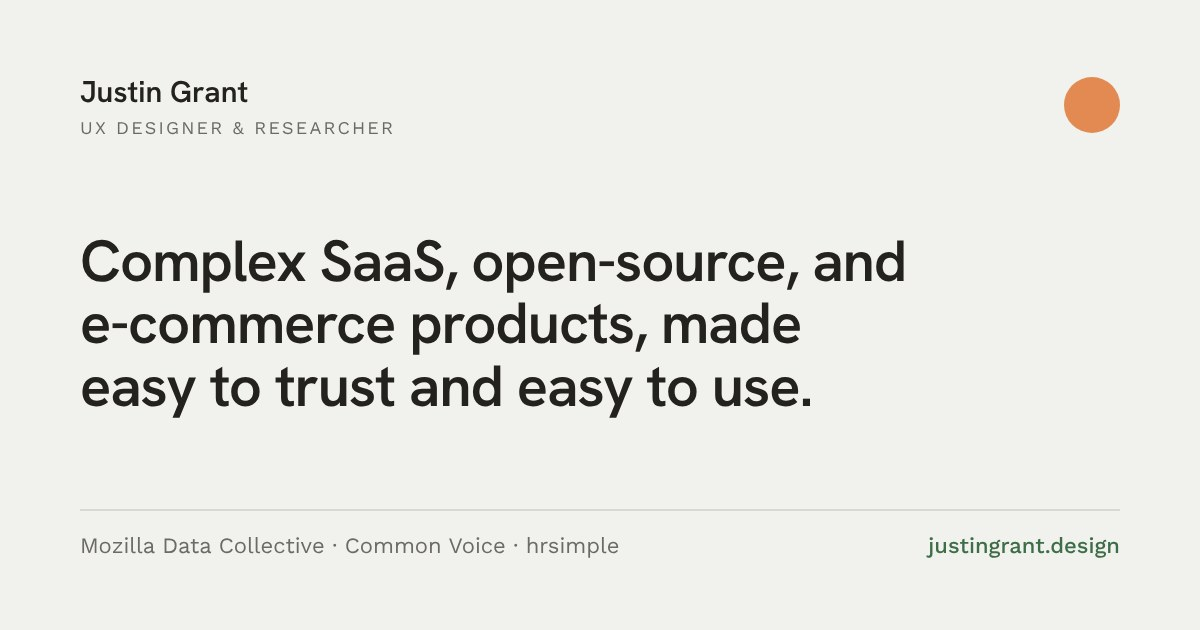
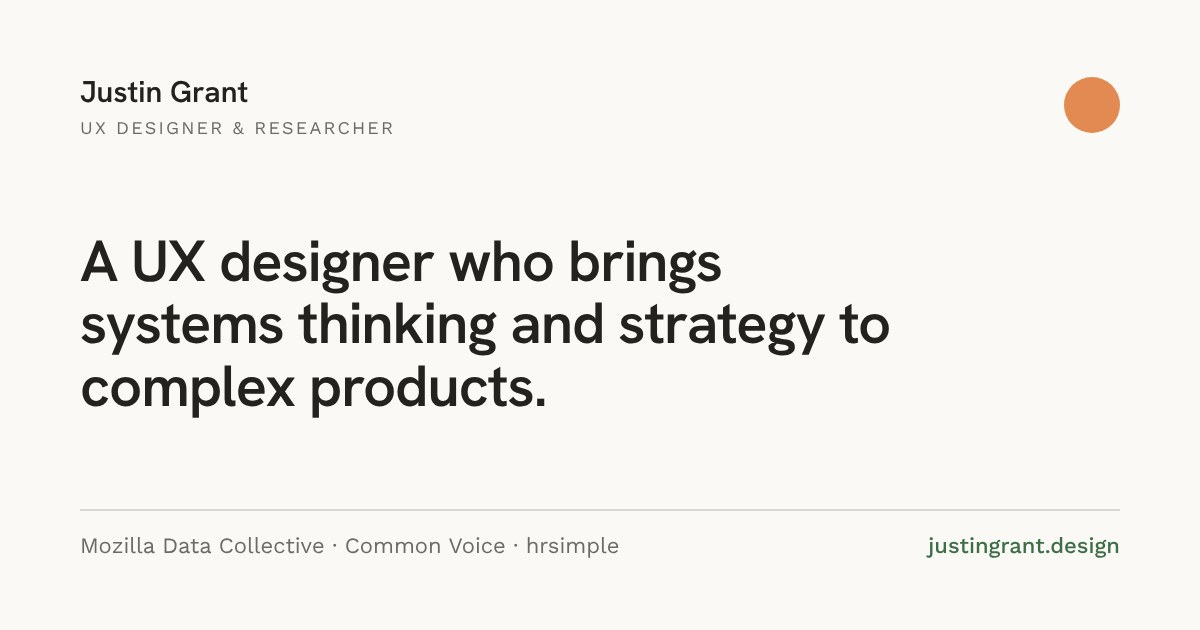
New headline: systems thinking and strategy
Claude-Session: https://claude.ai/code/session_013nNpA9FBnVwprHwe8g4KGN

Changed region(s): [[0.0617, 0.3619, 0.7708, 0.6635]]

diff --git a/index.html b/index.html
@@ -17,7 +17,7 @@
 <meta property="og:image" content="https://justingrant.design/images/og.jpg">
 <meta property="og:image:width" content="1200">
 <meta property="og:image:height" content="630">
-<meta property="og:image:alt" content="Justin Grant, UX designer and researcher for complex SaaS, open-source, and e-commerce products.">
+<meta property="og:image:alt" content="Justin Grant, a UX designer who brings systems thinking and strategy to complex products.">
 <meta name="twitter:card" content="summary_large_image">
 <link rel="icon" href="favicon.svg" type="image/svg+xml">
 <link rel="icon" href="favicon-32.png" type="image/png" sizes="32x32">
@@ -223,7 +223,7 @@ body::before { content: ""; position: fixed; inset: 0; z-index: -1; pointer-even
 
   <main id="main">
     <section class="hero">
-      <h1>Hi, I'm Justin, a UX designer and researcher who makes complex SaaS, open-source, and e-commerce products easy to trust and easy to use.</h1>
+      <h1>Hi, I'm Justin, a UX designer who brings systems thinking and strategy to complex products.</h1>
       <p>I work where the hard parts live: data governance, payments, and workflows that cross many teams. I map how the work really flows, turn it into product strategy, and test it at every stage: generative to find the problem, formative to shape the answer, and summative to prove it worked. Ten years across enterprise tech, education, HR, and open-source AI, usually in the middle of product, engineering, and the business.</p>
     </section>
 

diff --git a/404.html b/404.html
@@ -16,7 +16,7 @@
 <meta property="og:image" content="https://justingrant.design/images/og.jpg">
 <meta property="og:image:width" content="1200">
 <meta property="og:image:height" content="630">
-<meta property="og:image:alt" content="Justin Grant, UX designer and researcher for complex SaaS, open-source, and e-commerce products.">
+<meta property="og:image:alt" content="Justin Grant, a UX designer who brings systems thinking and strategy to complex products.">
 <meta name="twitter:card" content="summary_large_image">
 <link rel="icon" href="/favicon.svg" type="image/svg+xml">
 <link rel="icon" href="/favicon-32.png" type="image/png" sizes="32x32">

diff --git a/about.html b/about.html
@@ -17,7 +17,7 @@
 <meta property="og:image" content="https://justingrant.design/images/og.jpg">
 <meta property="og:image:width" content="1200">
 <meta property="og:image:height" content="630">
-<meta property="og:image:alt" content="Justin Grant, UX designer and researcher for complex SaaS, open-source, and e-commerce products.">
+<meta property="og:image:alt" content="Justin Grant, a UX designer who brings systems thinking and strategy to complex products.">
 <meta name="twitter:card" content="summary_large_image">
 <link rel="icon" href="favicon.svg" type="image/svg+xml">
 <link rel="icon" href="favicon-32.png" type="image/png" sizes="32x32">

diff --git a/common-voice.html b/common-voice.html
@@ -17,7 +17,7 @@
 <meta property="og:image" content="https://justingrant.design/images/og.jpg">
 <meta property="og:image:width" content="1200">
 <meta property="og:image:height" content="630">
-<meta property="og:image:alt" content="Justin Grant, UX designer and researcher for complex SaaS, open-source, and e-commerce products.">
+<meta property="og:image:alt" content="Justin Grant, a UX designer who brings systems thinking and strategy to complex products.">
 <meta name="twitter:card" content="summary_large_image">
 <link rel="icon" href="favicon.svg" type="image/svg+xml">
 <link rel="icon" href="favicon-32.png" type="image/png" sizes="32x32">

diff --git a/hrsimple.html b/hrsimple.html
@@ -17,7 +17,7 @@
 <meta property="og:image" content="https://justingrant.design/images/og.jpg">
 <meta property="og:image:width" content="1200">
 <meta property="og:image:height" content="630">
-<meta property="og:image:alt" content="Justin Grant, UX designer and researcher for complex SaaS, open-source, and e-commerce products.">
+<meta property="og:image:alt" content="Justin Grant, a UX designer who brings systems thinking and strategy to complex products.">
 <meta name="twitter:card" content="summary_large_image">
 <link rel="icon" href="favicon.svg" type="image/svg+xml">
 <link rel="icon" href="favicon-32.png" type="image/png" sizes="32x32">

diff --git a/mdc.html b/mdc.html
@@ -17,7 +17,7 @@
 <meta property="og:image" content="https://justingrant.design/images/og.jpg">
 <meta property="og:image:width" content="1200">
 <meta property="og:image:height" content="630">
-<meta property="og:image:alt" content="Justin Grant, UX designer and researcher for complex SaaS, open-source, and e-commerce products.">
+<meta property="og:image:alt" content="Justin Grant, a UX designer who brings systems thinking and strategy to complex products.">
 <meta name="twitter:card" content="summary_large_image">
 <link rel="icon" href="favicon.svg" type="image/svg+xml">
 <link rel="icon" href="favicon-32.png" type="image/png" sizes="32x32">

diff --git a/resume.html b/resume.html
@@ -17,7 +17,7 @@
 <meta property="og:image" content="https://justingrant.design/images/og.jpg">
 <meta property="og:image:width" content="1200">
 <meta property="og:image:height" content="630">
-<meta property="og:image:alt" content="Justin Grant, UX designer and researcher for complex SaaS, open-source, and e-commerce products.">
+<meta property="og:image:alt" content="Justin Grant, a UX designer who brings systems thinking and strategy to complex products.">
 <meta name="twitter:card" content="summary_large_image">
 <link rel="icon" href="favicon.svg" type="image/svg+xml">
 <link rel="icon" href="favicon-32.png" type="image/png" sizes="32x32">
